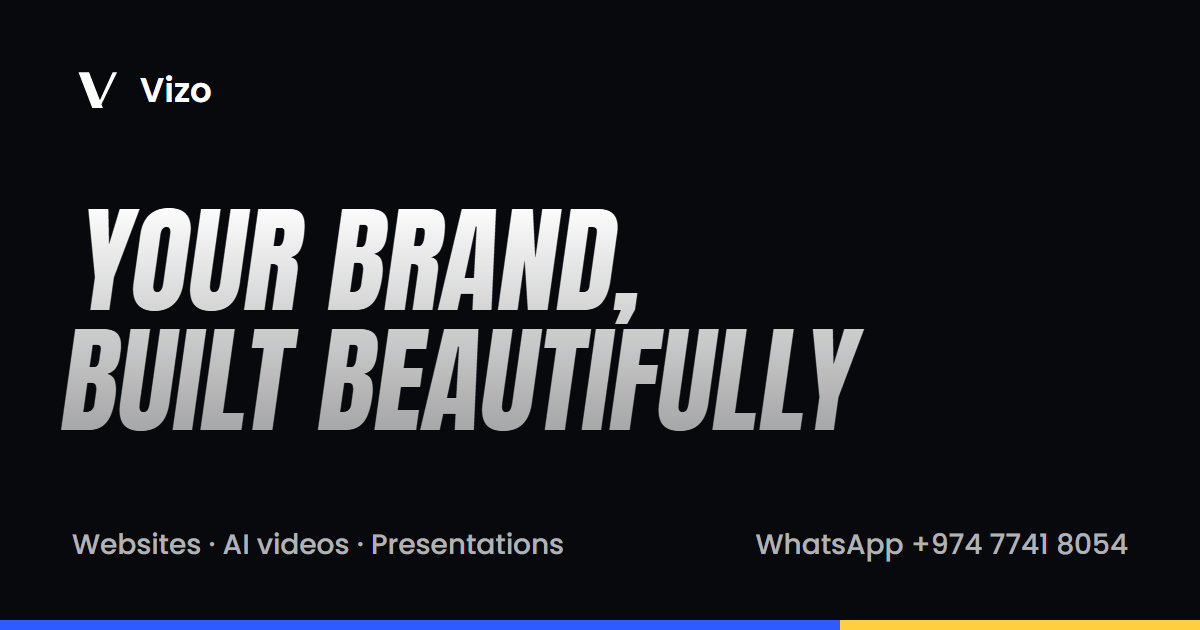
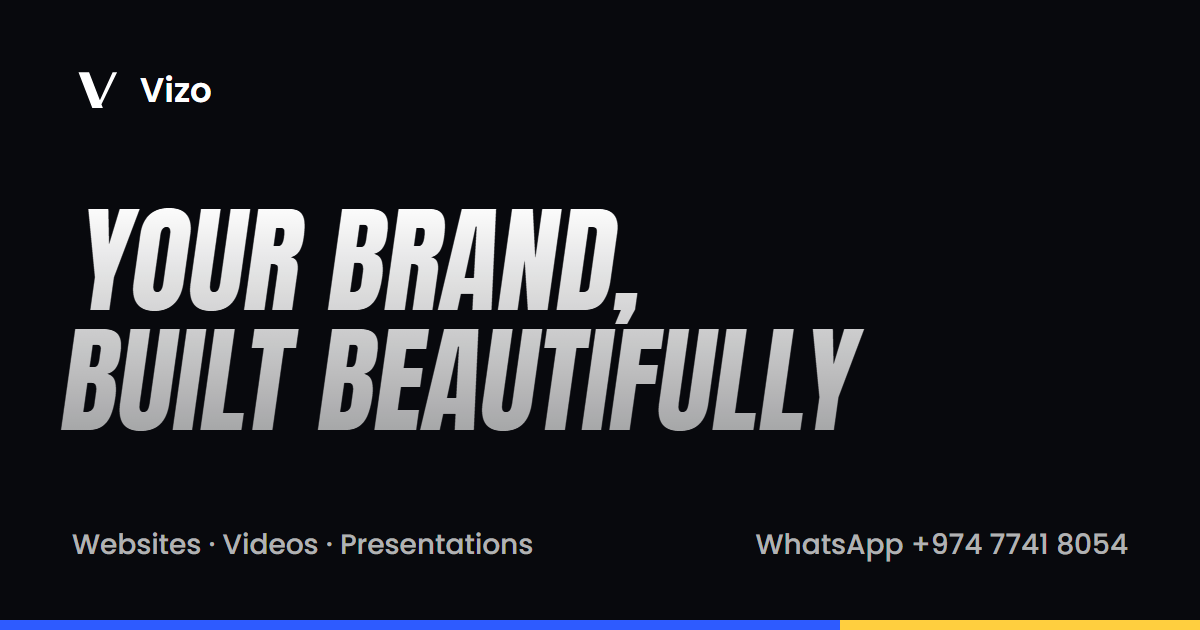
Remove "AI" from the site; bigger nav tabs; animate both About paragraphs
- Copy (English and Arabic): "AI videos" becomes "Videos" everywhere:
  page titles and descriptions, showcase and services, terminal, the
  enquiry form, footer tagline. The share image and its alt text too.
- Header tabs: 16px medium, brighter (was 14px regular); phone menu
  links match.
- About: the second paragraph uses the same line-by-line scroll
  animation as the first (OmarBio takes a className).

Changed region(s): [[0.185, 0.8444, 0.4933, 0.9048]]

diff --git a/src/components/marketing/sections.tsx b/src/components/marketing/sections.tsx
@@ -12,7 +12,7 @@ function WorkGroup({ title, className }: { title: string; className?: string }) 
   return <h3 className={`mb-6 text-center text-2xl font-semibold tracking-tight md:text-3xl ${className ?? ''}`}>{title}</h3>
 }
 
-/** Recent work, grouped by service: websites, AI videos, presentations. */
+/** Recent work, grouped by service: websites, videos, presentations. */
 export async function WorkSection() {
   const [t, locale] = await Promise.all([getTranslations('marketing'), getLocale()])
   return (
@@ -82,7 +82,7 @@ export async function AboutSection() {
         <p className="text-vz-accent text-sm font-medium">{t('about.eyebrow')}</p>
         <h2 className="vz-title mt-3 text-4xl md:text-5xl">{t('about.title')}</h2>
         <OmarBio text={t('about.body1')} />
-        <p className="mt-3 text-pretty text-fg/70">{t('about.body2')}</p>
+        <OmarBio text={t('about.body2')} className="mt-3" />
       </div>
     </Wrap>
   )

diff --git a/src/components/marketing/OmarBio.tsx b/src/components/marketing/OmarBio.tsx
@@ -6,7 +6,8 @@ import { useEffect, useRef } from 'react'
 
 gsap.registerPlugin(SplitText)
 
-export function OmarBio({ text }: { text: string }) {
+/** A paragraph whose lines scale and fade in, one after another, when it scrolls into view. */
+export function OmarBio({ text, className = 'mt-4' }: { text: string; className?: string }) {
   const paragraphRef = useRef<HTMLParagraphElement>(null)
 
   useEffect(() => {
@@ -46,5 +47,5 @@ export function OmarBio({ text }: { text: string }) {
     return () => motion.revert()
   }, [text])
 
-  return <p ref={paragraphRef} className="large-animation-0 mt-4 text-pretty text-fg/70">{text}</p>
+  return <p ref={paragraphRef} className={`large-animation-0 text-pretty text-fg/70 ${className}`}>{text}</p>
 }

diff --git a/src/app/(platform)/layout.tsx b/src/app/(platform)/layout.tsx
@@ -35,7 +35,7 @@ const platformArabicFont = Readex_Pro({
 export const metadata: Metadata = {
   metadataBase: new URL(APP_URL),
   title: { default: APP_NAME, template: `%s — ${APP_NAME}` },
-  description: `${APP_NAME} designs clean, fast websites, AI videos and presentations for businesses and creators.`,
+  description: `${APP_NAME} designs clean, fast websites, videos and presentations for businesses and creators.`,
   applicationName: APP_NAME,
   // Large share previews; the image is opengraph-image.png / twitter-image.png next to this file.
   twitter: { card: 'summary_large_image' },

diff --git a/src/components/marketing/NavLinks.tsx b/src/components/marketing/NavLinks.tsx
@@ -22,7 +22,7 @@ export function NavLinks({ links, variant }: { links: { href: string; label: str
           className={
             variant === 'bar'
               ? `transition hover:text-fg ${active ? 'text-fg' : ''}`
-              : `block rounded-lg px-3 py-2 hover:bg-fg/5 ${active ? 'bg-fg/5 text-fg' : 'text-fg/80'}`
+              : `block rounded-lg px-3 py-2.5 text-base font-medium hover:bg-fg/5 ${active ? 'bg-fg/5 text-fg' : 'text-fg/80'}`
           }
         >
           {link.label}

diff --git a/src/components/marketing/site.tsx b/src/components/marketing/site.tsx
@@ -75,7 +75,7 @@ export async function SiteHeader() {
         <a href={localePath(locale, '/')} className="rounded-md">
           <Logo className="text-fg" size={30} />
         </a>
-        <ul className="hidden items-center gap-6 text-sm text-fg/70 md:flex">
+        <ul className="hidden items-center gap-8 text-base font-medium text-fg/80 md:flex">
           <NavLinks links={links} variant="bar" />
         </ul>
         <div className="ms-auto flex shrink-0 items-center gap-2">
